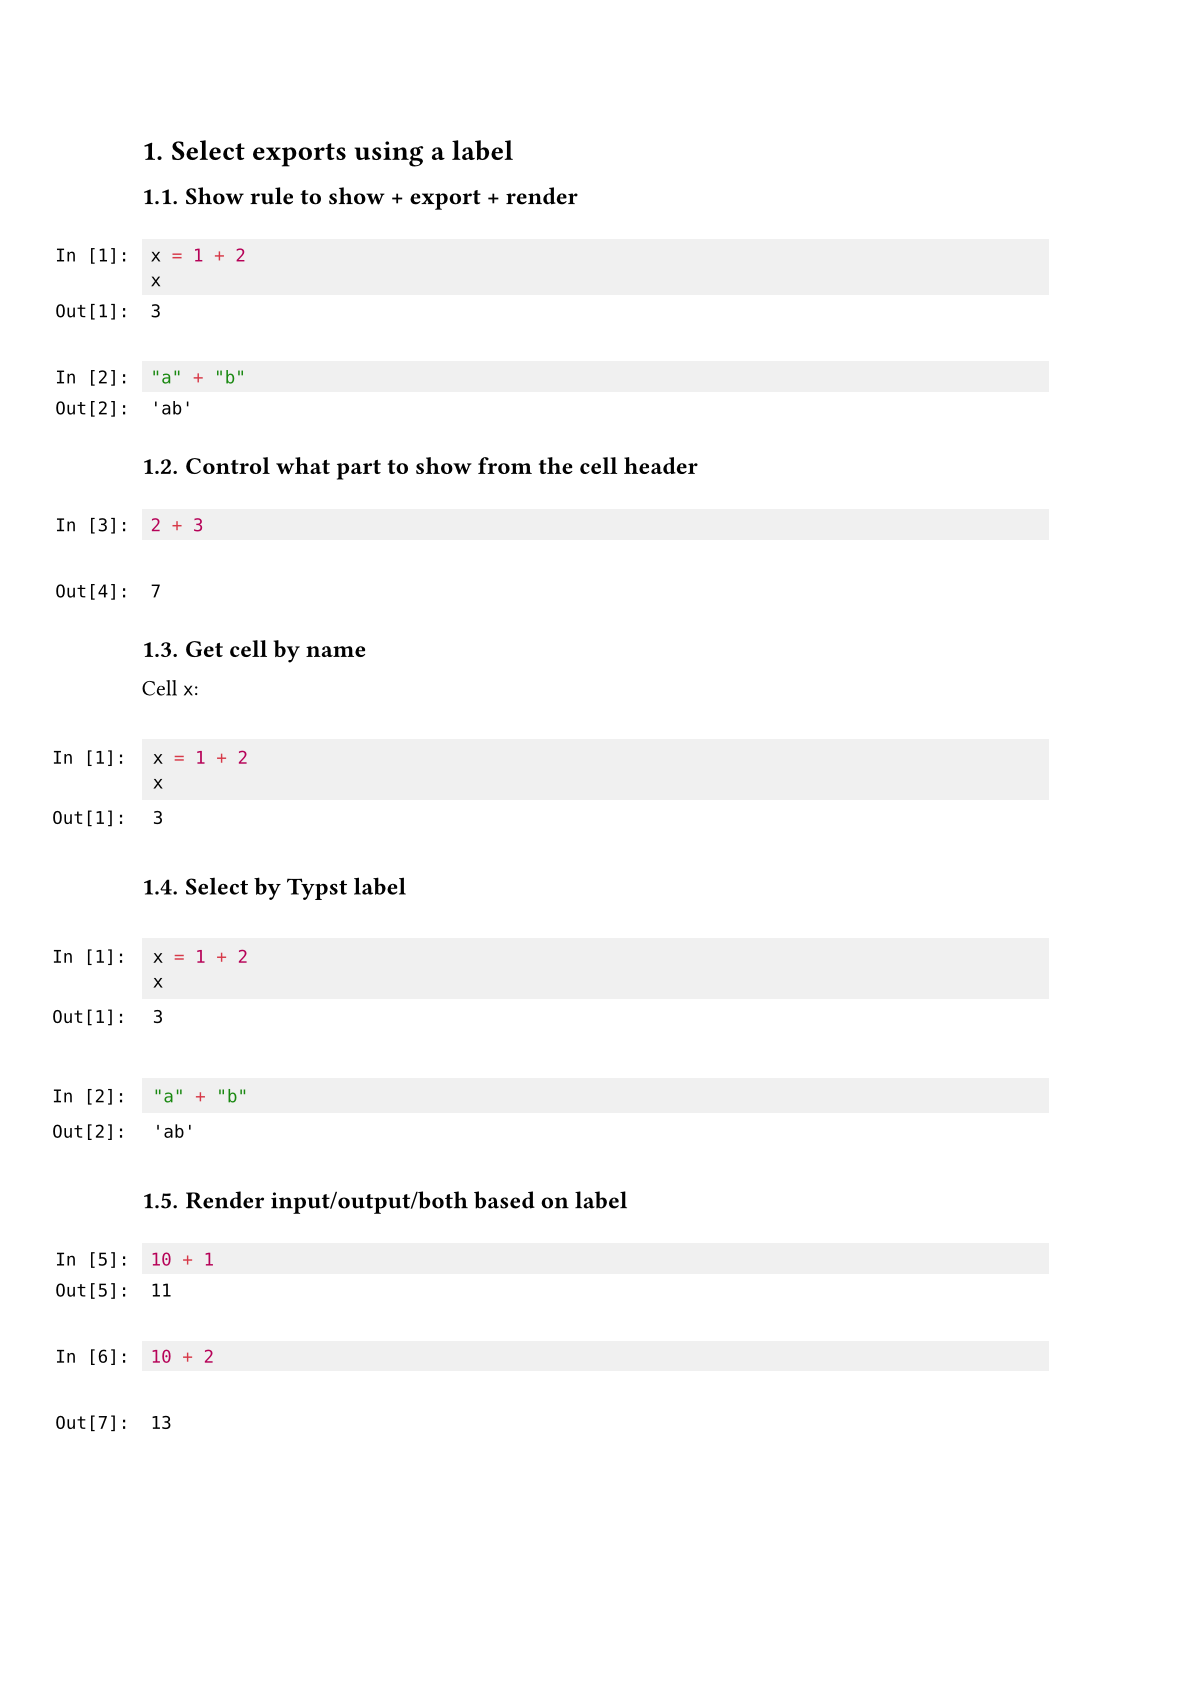
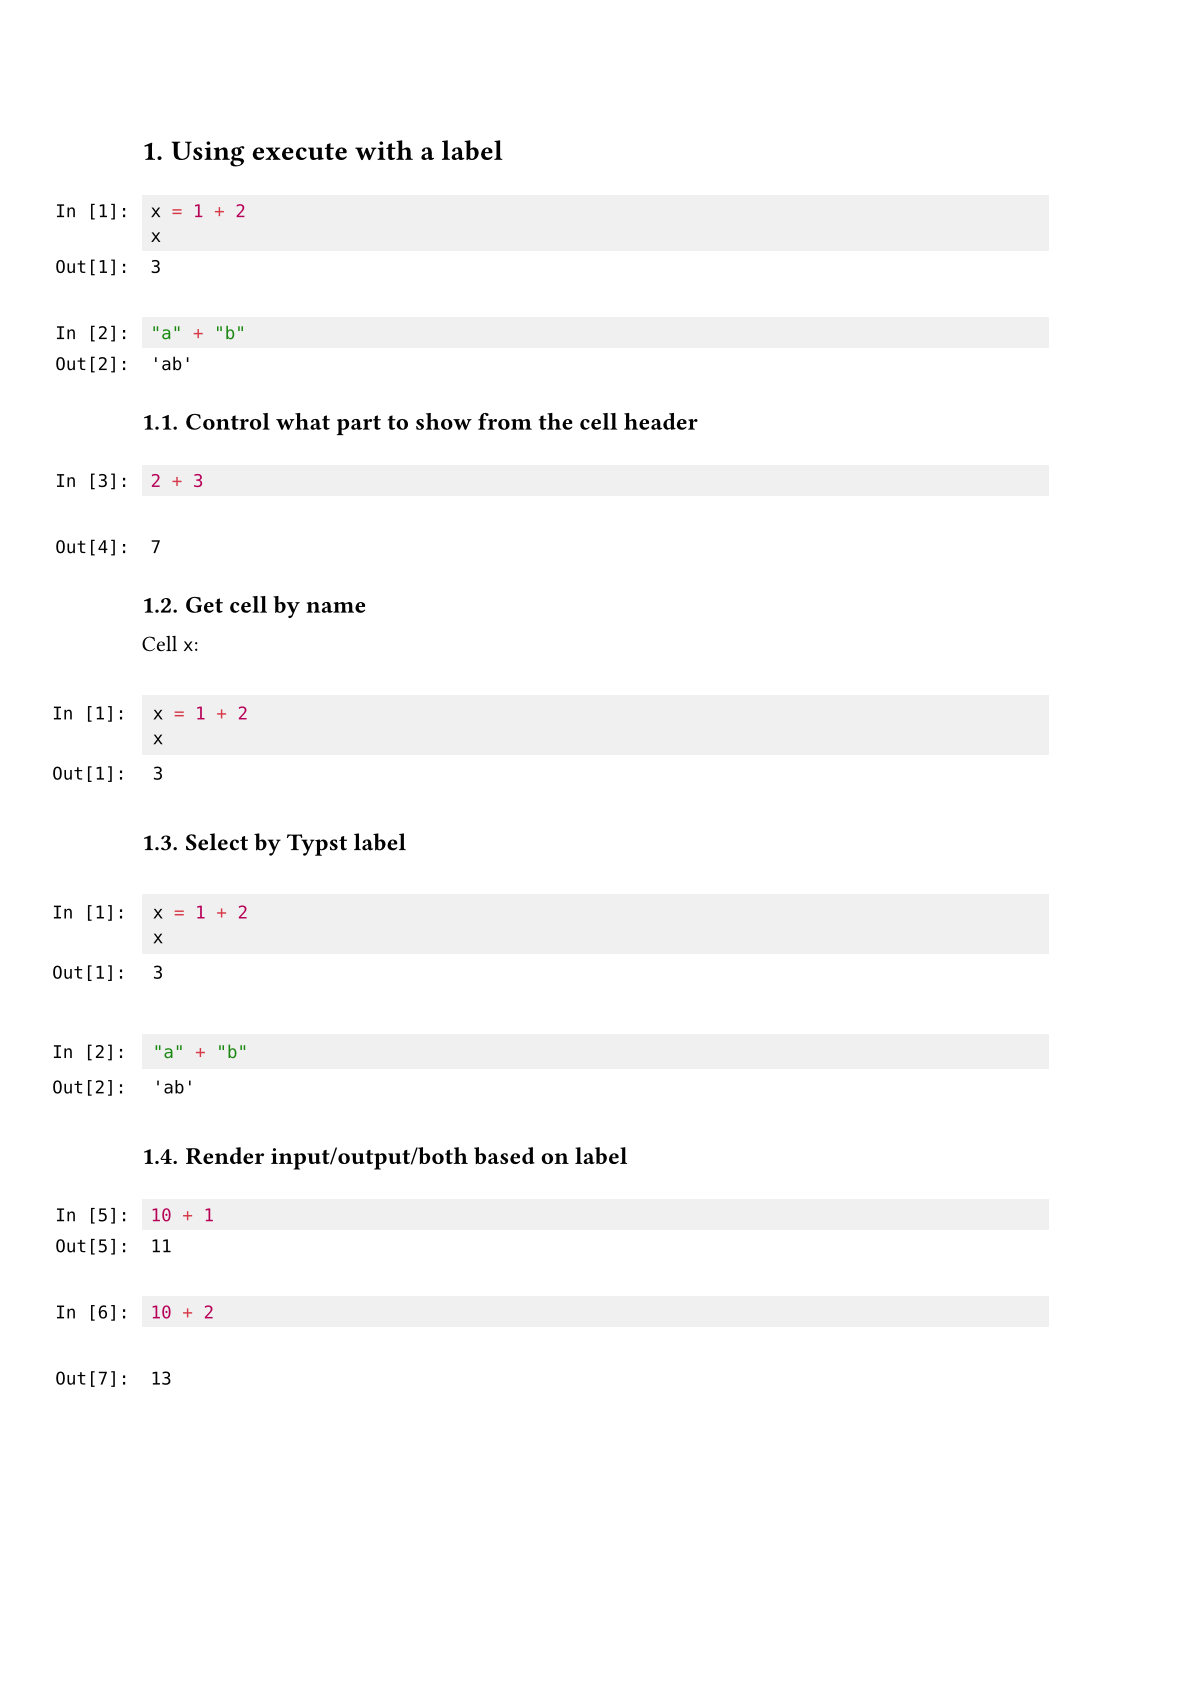
Improve placeholders

diff --git a/tests/placeholders/README.md b/tests/placeholders/README.md
@@ -1,0 +1,1 @@
+No need to execute the notebook, as this test is only for placeholders.